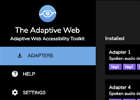
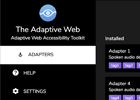
Updated High Contrast themes

diff --git a/extension-site/src/context/themes/Themes.js b/extension-site/src/context/themes/Themes.js
@@ -23,7 +23,8 @@ const DefaultTheme = {
     },
     button: {
         normal: '#62A8E8',
-    }
+    },
+    separatorColor: '#D8D8D8'
 }
 
 const DarkTheme = {
@@ -42,16 +43,17 @@ const DarkTheme = {
     },
     button: {
         normal: '#62A8E8',
-    }
+    },
+    separatorColor: '#555'
 }
 
 const HighContrastTheme = {
     background: '#1c1c1c',
     paper: '#000',
     accent: {
-        light: '#62A8E8',
-        normal: '#62A8E8',
-        dark: '#62A8E8'
+        light: '#fff',
+        normal: '#fff',
+        dark: '#fff'
     },
     text: {
         primary: '#fff',
@@ -65,7 +67,8 @@ const HighContrastTheme = {
     },
     button: {
         normal: '#fff',
-    }
+    },
+    separatorColor: '#fff'
 }
 
 const HighContrastInvertedTheme = {
@@ -88,7 +91,8 @@ const HighContrastInvertedTheme = {
     },
     button: {
         normal: '#000',
-    }
+    },
+    separatorColor: '#000'
 }
 
 export const Themes = {

diff --git a/extension-site/src/components/Card/Card.js b/extension-site/src/components/Card/Card.js
@@ -19,7 +19,7 @@ border-radius: 3px;
 
 const InnerDiv = styled.div`
 padding: 15px;
-${props => props.border && `border-top: 1px solid #D8D8D8;`};
+${props => props.border && `border-top: 1px solid ${props.theme.separatorColor};`};
 `;
 
 export default Card;

diff --git a/extension-site/src/components/AdapterModal/AdapterModal.js b/extension-site/src/components/AdapterModal/AdapterModal.js
@@ -52,6 +52,7 @@ overflow-y: scroll;
 overscroll-behavior: none;
 margin: -15px;
 padding: 0 15px;
+color: ${props => props.theme.text.primary};
 `;
 
 export default AdapterModal;
